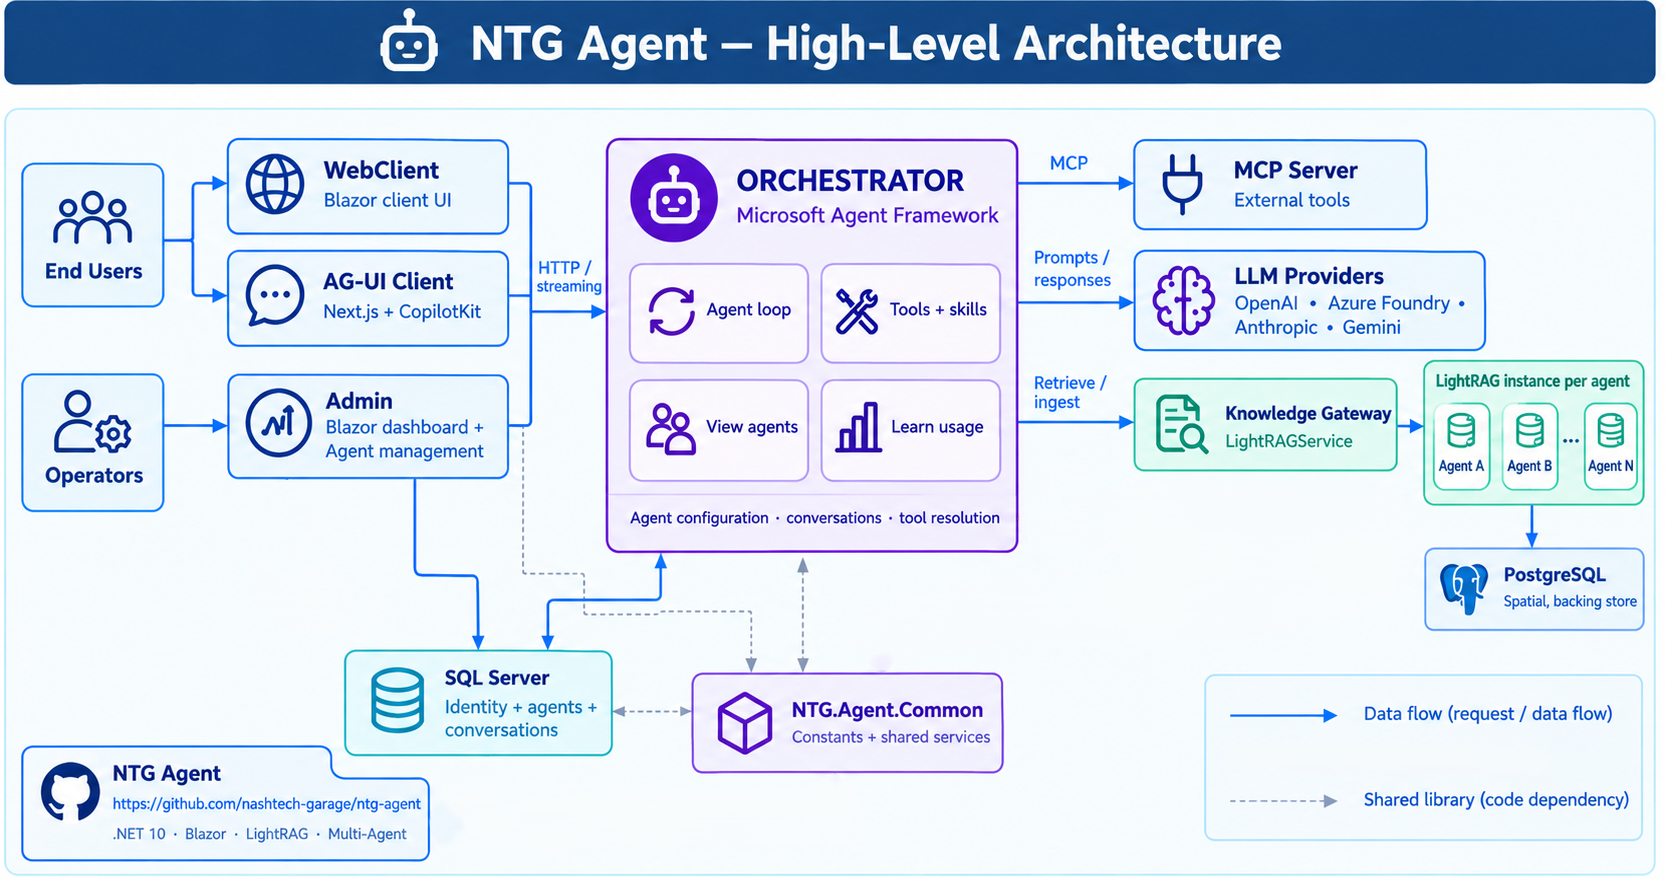
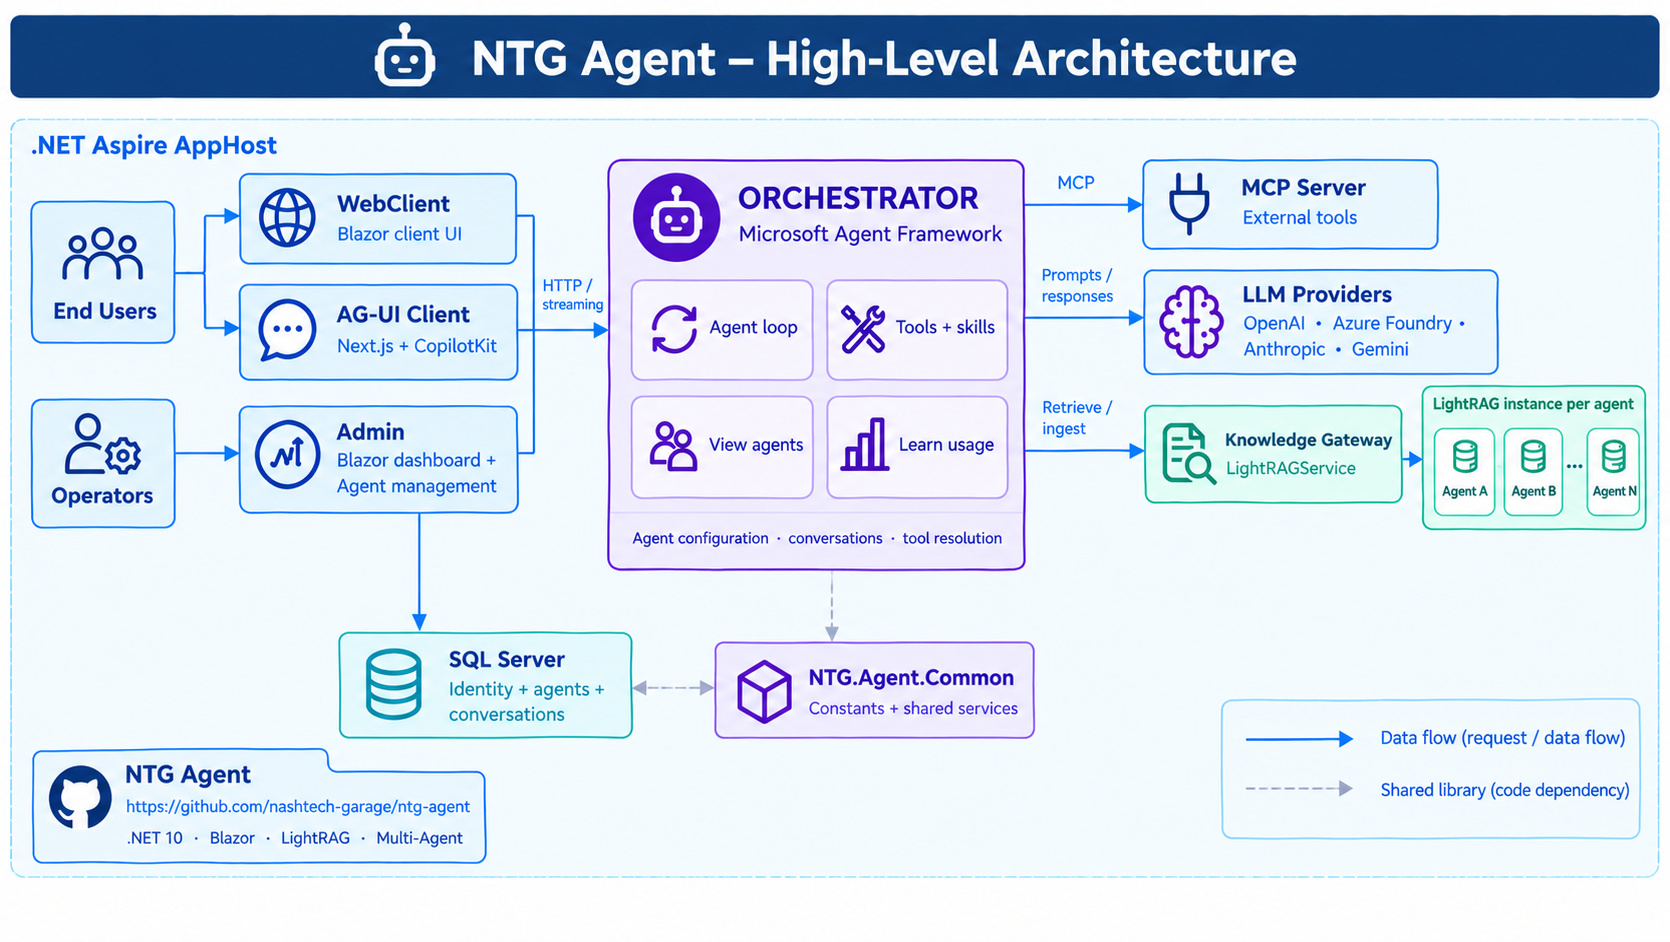
Fix issue for anonymous chat (#299)
* Fix cannot load agent for not logged user

* Fix cannot load agent for not logged user

* Update the high level architecter image

* Agent Management - Reorder the agent tabs - show all at last

Changed region(s): [[0.0, 0.0, 0.9994, 1.0], [0.7183, 0.9215, 0.7495, 0.9522]]

diff --git a/src/tests/NTG.Agent.Orchestrator.Tests/Controllers/AgentsControllerTests.cs b/src/tests/NTG.Agent.Orchestrator.Tests/Controllers/AgentsControllerTests.cs
@@ -4,6 +4,7 @@ using Microsoft.EntityFrameworkCore;
 using Microsoft.Extensions.Logging;
 using Moq;
 using NTG.Agent.Common.Dtos.Agents;
+using NTG.Agent.Common.Dtos.Constants;
 using NTG.Agent.Orchestrator.Controllers;
 using NTG.Agent.Orchestrator.Data;
 using NTG.Agent.Orchestrator.Services.Agents;
@@ -139,6 +140,53 @@ public class AgentsControllerTests
         var customAgent = agents.FirstOrDefault(a => !a.IsDefault);
         Assert.That(customAgent, Is.Not.Null, "Custom agent should be in the list");
         Assert.That(customAgent!.Name, Is.EqualTo("Custom Agent"));
+    }
+
+    [Test]
+    public async Task GetAgents_WhenAnonymous_ReturnsPublishedAgents()
+    {
+        _controller.ControllerContext.HttpContext.User = new ClaimsPrincipal(new ClaimsIdentity());
+        var agent = new Models.Agents.Agent
+        {
+            Id = Guid.NewGuid(),
+            Name = "Anonymous Agent",
+            Instructions = "Test instructions",
+            IsPublished = true,
+            OwnerUserId = _testUserId,
+            UpdatedByUserId = _testUserId
+        };
+        await _context.Agents.AddAsync(agent);
+        await _context.AgentRoles.AddAsync(new Models.Agents.AgentRole
+        {
+            Id = Guid.NewGuid(),
+            AgentId = agent.Id,
+            RoleId = new Guid(Constants.AnonymousRoleId)
+        });
+        var subAgent = new Models.Agents.Agent
+        {
+            Id = Guid.NewGuid(),
+            Name = "Anonymous Sub-agent",
+            Instructions = "Test instructions",
+            IsPublished = true,
+            AgentKind = AgentKind.SubAgent,
+            OwnerUserId = _testUserId,
+            UpdatedByUserId = _testUserId
+        };
+        await _context.Agents.AddAsync(subAgent);
+        await _context.AgentRoles.AddAsync(new Models.Agents.AgentRole
+        {
+            Id = Guid.NewGuid(),
+            AgentId = subAgent.Id,
+            RoleId = new Guid(Constants.AnonymousRoleId)
+        });
+        await _context.SaveChangesAsync();
+
+        var result = await _controller.GetAgents();
+
+        var okResult = result as OkObjectResult;
+        var agents = okResult!.Value as List<AgentListItemDto>;
+        Assert.That(agents, Has.Count.EqualTo(1));
+        Assert.That(agents[0].Id, Is.EqualTo(agent.Id));
     }
 
     [Test]

diff --git a/src/tests/NTG.Agent.Orchestrator.Tests/Services/AgentAccessServiceTests.cs b/src/tests/NTG.Agent.Orchestrator.Tests/Services/AgentAccessServiceTests.cs
@@ -1,4 +1,5 @@
 using Microsoft.EntityFrameworkCore;
+using NTG.Agent.Common.Dtos.Constants;
 using NTG.Agent.Orchestrator.Data;
 using NTG.Agent.Orchestrator.Models.Agents;
 using NTG.Agent.Orchestrator.Models.Identity;
@@ -53,6 +54,12 @@ public class AgentAccessServiceTests
             OwnerUserId = _ownerId,
             UpdatedByUserId = _ownerId
         });
+        _context.AgentRoles.Add(new AgentRole
+        {
+            Id = Guid.NewGuid(),
+            AgentId = _agentId,
+            RoleId = new Guid(Constants.AnonymousRoleId)
+        });
 
         _context.SaveChanges();
     }
@@ -99,9 +106,20 @@ public class AgentAccessServiceTests
     }
 
     [Test]
-    public async Task HasAccessAsync_NullUserId_ReturnsFalse()
+    public async Task HasAccessAsync_NullUserId_ReturnsAnonymousRoleGrantedAgent()
     {
         var result = await _service.HasAccessAsync(_agentId, null, isAdmin: false, CancellationToken.None);
+        Assert.That(result, Is.True);
+    }
+
+    [Test]
+    public async Task HasAccessAsync_NullUserId_WithoutAnonymousRole_ReturnsFalse()
+    {
+        _context.AgentRoles.RemoveRange(_context.AgentRoles);
+        await _context.SaveChangesAsync();
+
+        var result = await _service.HasAccessAsync(_agentId, null, isAdmin: false, CancellationToken.None);
+
         Assert.That(result, Is.False);
     }
 
@@ -167,10 +185,11 @@ public class AgentAccessServiceTests
     }
 
     [Test]
-    public async Task AccessibleAgentsQuery_NullUserId_ReturnsEmpty()
+    public async Task AccessibleAgentsQuery_NullUserId_ReturnsAnonymousRoleGrantedAgents()
     {
         var agents = await _service.AccessibleAgentsQuery(null, isAdmin: false).ToListAsync();
-        Assert.That(agents, Is.Empty);
+        Assert.That(agents, Has.Count.EqualTo(1));
+        Assert.That(agents[0].Id, Is.EqualTo(_agentId));
     }
 
     [Test]

diff --git a/src/NTG.Agent.Orchestrator/Services/Agents/AgentAccessService.cs b/src/NTG.Agent.Orchestrator/Services/Agents/AgentAccessService.cs
@@ -1,4 +1,6 @@
 using Microsoft.EntityFrameworkCore;
+using NTG.Agent.Common.Dtos.Agents;
+using NTG.Agent.Common.Dtos.Constants;
 using NTG.Agent.Orchestrator.Data;
 
 namespace NTG.Agent.Orchestrator.Services.Agents;
@@ -14,7 +16,17 @@ public sealed class AgentAccessService
 
     public async Task<bool> HasAccessAsync(Guid agentId, Guid? userId, bool isAdmin, CancellationToken ct = default)
     {
-        if (userId is null) return false;
+        if (!userId.HasValue)
+        {
+            var anonymousRoleId = Guid.Parse(Constants.AnonymousRoleId);
+            return await _db.Agents.AnyAsync(a =>
+                a.Id == agentId
+                && a.IsPublished
+                && a.AgentKind == AgentKind.Agent
+                && _db.AgentRoles.Any(ar => ar.AgentId == a.Id && ar.RoleId == anonymousRoleId),
+                ct);
+        }
+
         return await _db.Agents.AnyAsync(a =>
             a.Id == agentId
             && a.IsPublished
@@ -27,7 +39,15 @@ public sealed class AgentAccessService
 
     public IQueryable<Models.Agents.Agent> AccessibleAgentsQuery(Guid? userId, bool isAdmin)
     {
-        if (userId is null) return _db.Agents.Where(_ => false);
+        if (!userId.HasValue)
+        {
+            var anonymousRoleId = Guid.Parse(Constants.AnonymousRoleId);
+            return _db.Agents.Where(a =>
+                a.IsPublished
+                && a.AgentKind == AgentKind.Agent
+                && _db.AgentRoles.Any(ar => ar.AgentId == a.Id && ar.RoleId == anonymousRoleId));
+        }
+
         return _db.Agents.Where(a =>
             a.IsPublished
             && (a.OwnerUserId == userId || isAdmin

diff --git a/src/NTG.Agent.WebClient/NTG.Agent.WebClient.Client/Services/ConversationClient.cs b/src/NTG.Agent.WebClient/NTG.Agent.WebClient.Client/Services/ConversationClient.cs
@@ -93,8 +93,13 @@ public class ConversationClient(HttpClient httpClient)
         return response.IsSuccessStatusCode;
     }
 
-    public async Task<RateLimitStatus?> GetAnonymousRateLimitStatusAsync(string currentSessionId)
+    public async Task<RateLimitStatus?> GetAnonymousRateLimitStatusAsync(string? currentSessionId)
     {
+        if (!Guid.TryParse(currentSessionId, out _))
+        {
+            return null;
+        }
+
         string url = $"/api/conversations/anonymous/rate-limit-status?sessionId={Uri.EscapeDataString(currentSessionId)}";
 
         var response = await httpClient.GetAsync(url);
